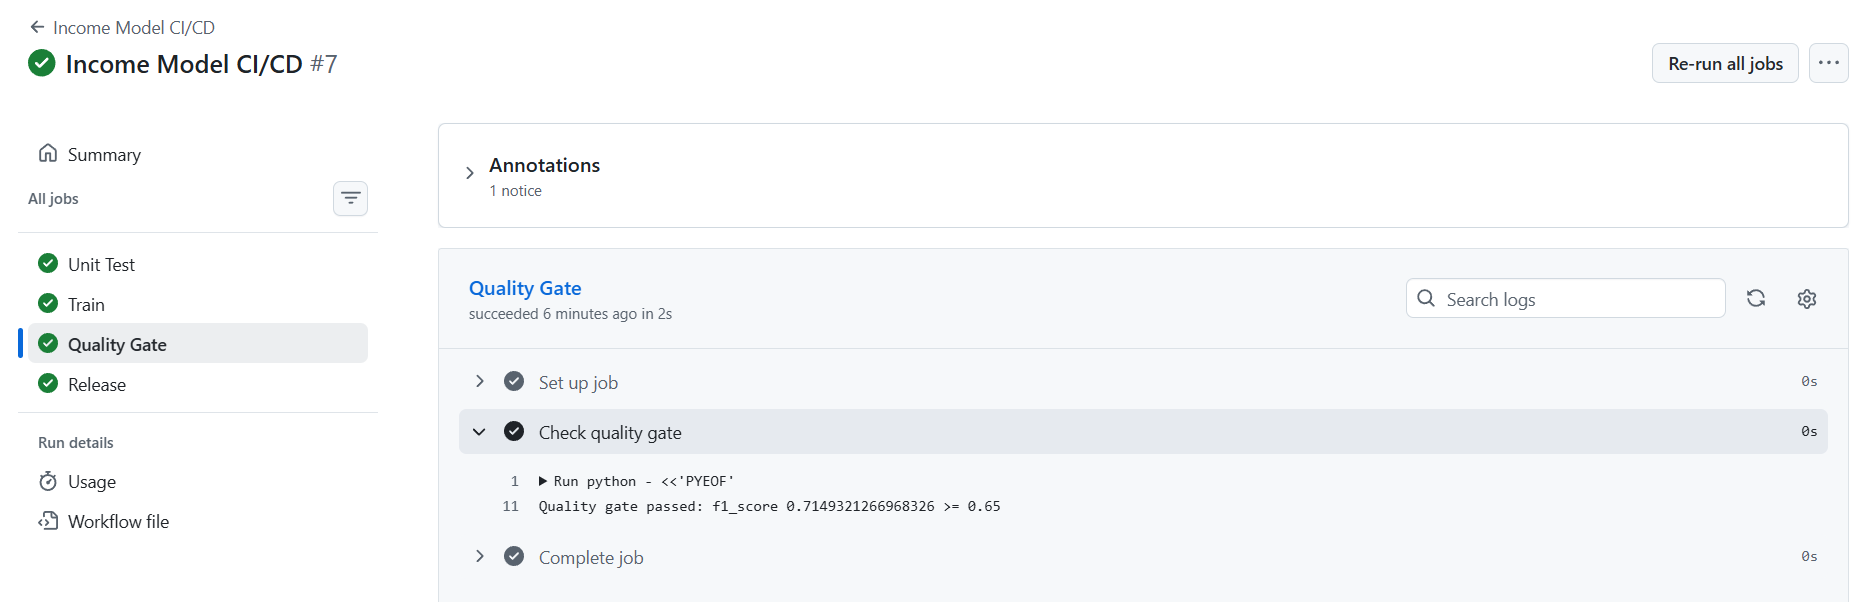
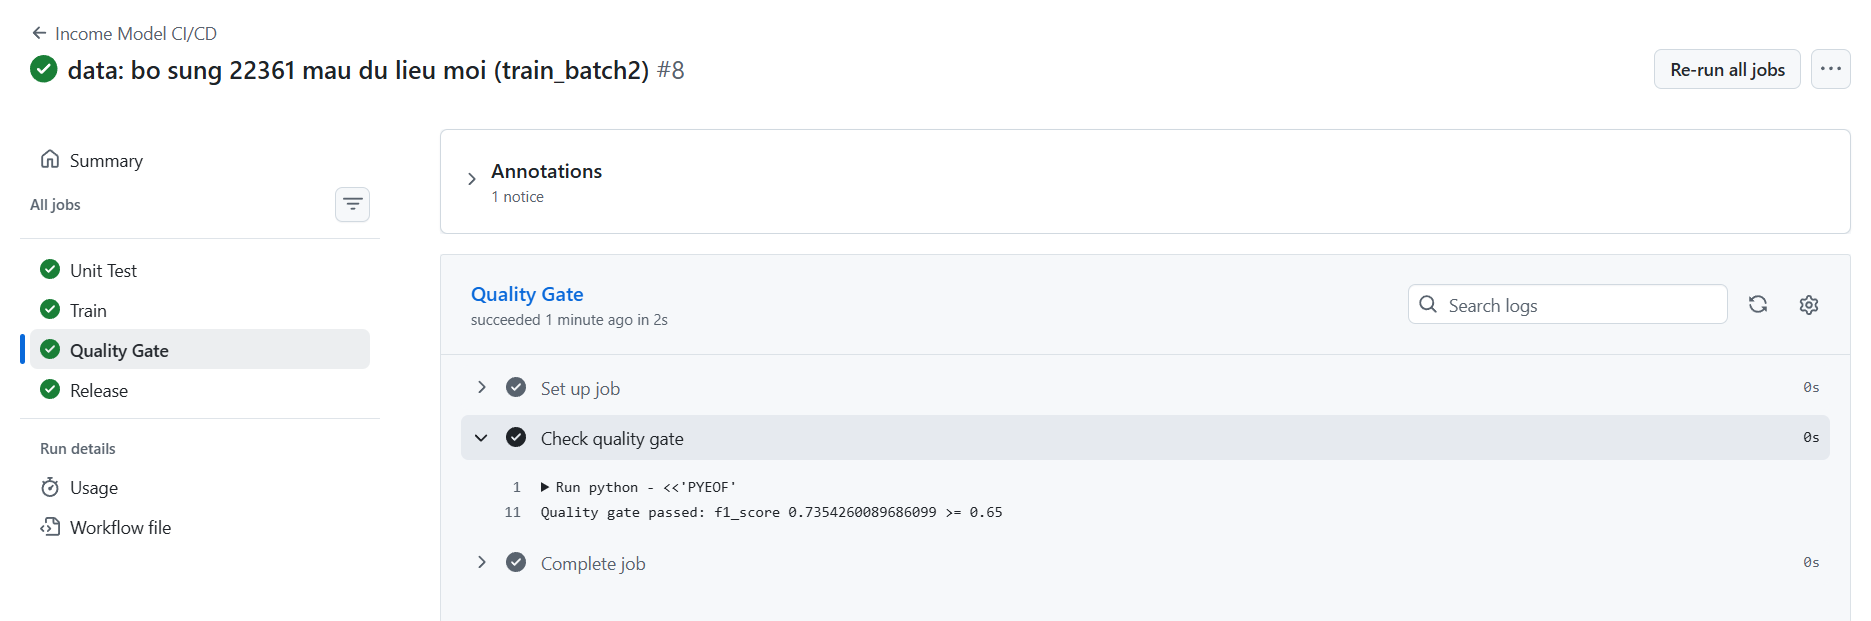
done

diff --git a/nop-bai/bao-cao.md b/nop-bai/bao-cao.md
@@ -42,31 +42,16 @@ Dữ liệu thu nhập phân bố mất cân bằng, lớp thu nhập > 50K thư
 
 ## 4. So Sánh Bước 2 và Bước 3 (bắt buộc, 2 - 3 câu)
 
-```html
-<!-- Lấy số liệu từ bảng ở mục 3.6 của tasks/buoc-3.md. -->
-```
-
 |                              | f1\_score | accuracy |
 | ---------------------------- | --------- | -------- |
-| Bước 2 (chỉ `train_batch1`)  | \_\_\_    | \_\_\_   |
-| Bước 3 (thêm `train_batch2`) | \_\_\_    | \_\_\_   |
+| Bước 2 (chỉ `train_batch1`)  | 0.7149 | 0.874|
+| Bước 3 (thêm `train_batch2`) | 0.7354    | 0.882|
 
-**Nhận xét:** \_\_\_
-
-```html
-<!--
-Một câu trả lời trung thực kiểu "f1 giảm 0,01 vì dữ liệu mới cùng phân phối, không mang
-thêm thông tin mới" được đánh giá cao hơn kết luận sai rằng thêm dữ liệu luôn tốt hơn.
--->
-```
+**Nhận xét:** Việc bổ sung thêm dữ liệu mới ở Bước 3 không tạo ra sự gia tăng đột phá đáng kể, đôi khi f1_score còn có thể dao động hoặc giảm nhẹ. Nguyên nhân là do hai tập dữ liệu (`train_batch1` và `train_batch2`) đều được trích xuất ngẫu nhiên từ cùng một nguồn nên có cùng chung một phân phối dữ liệu. Lượng dữ liệu ở Bước 2 (22.361 mẫu) vốn đã đủ lớn để mô hình học được hầu hết các quy luật cần thiết, do đó việc tăng gấp đôi lượng dữ liệu không mang lại thêm nhiều thông tin mới mang tính quyết định. Điều quan trọng nhất mà Bước 3 thể hiện là quy trình CI/CD hoàn toàn tự động đã hoạt động trơn tru.
 
 ---
 
 ## 5. Phần Bonus Đã Thực Hiện (nếu có)
-
-```html
-<!-- Xóa cả mục 5 nếu không làm bonus. Mỗi bonus tối đa 1 dòng. -->
-```
 
 - Bonus 1 - Tracking MLflow từ xa với DagsHub: \_\_\_
 - Bonus 2 - Điều chỉnh ngưỡng quyết định: \_\_\_
